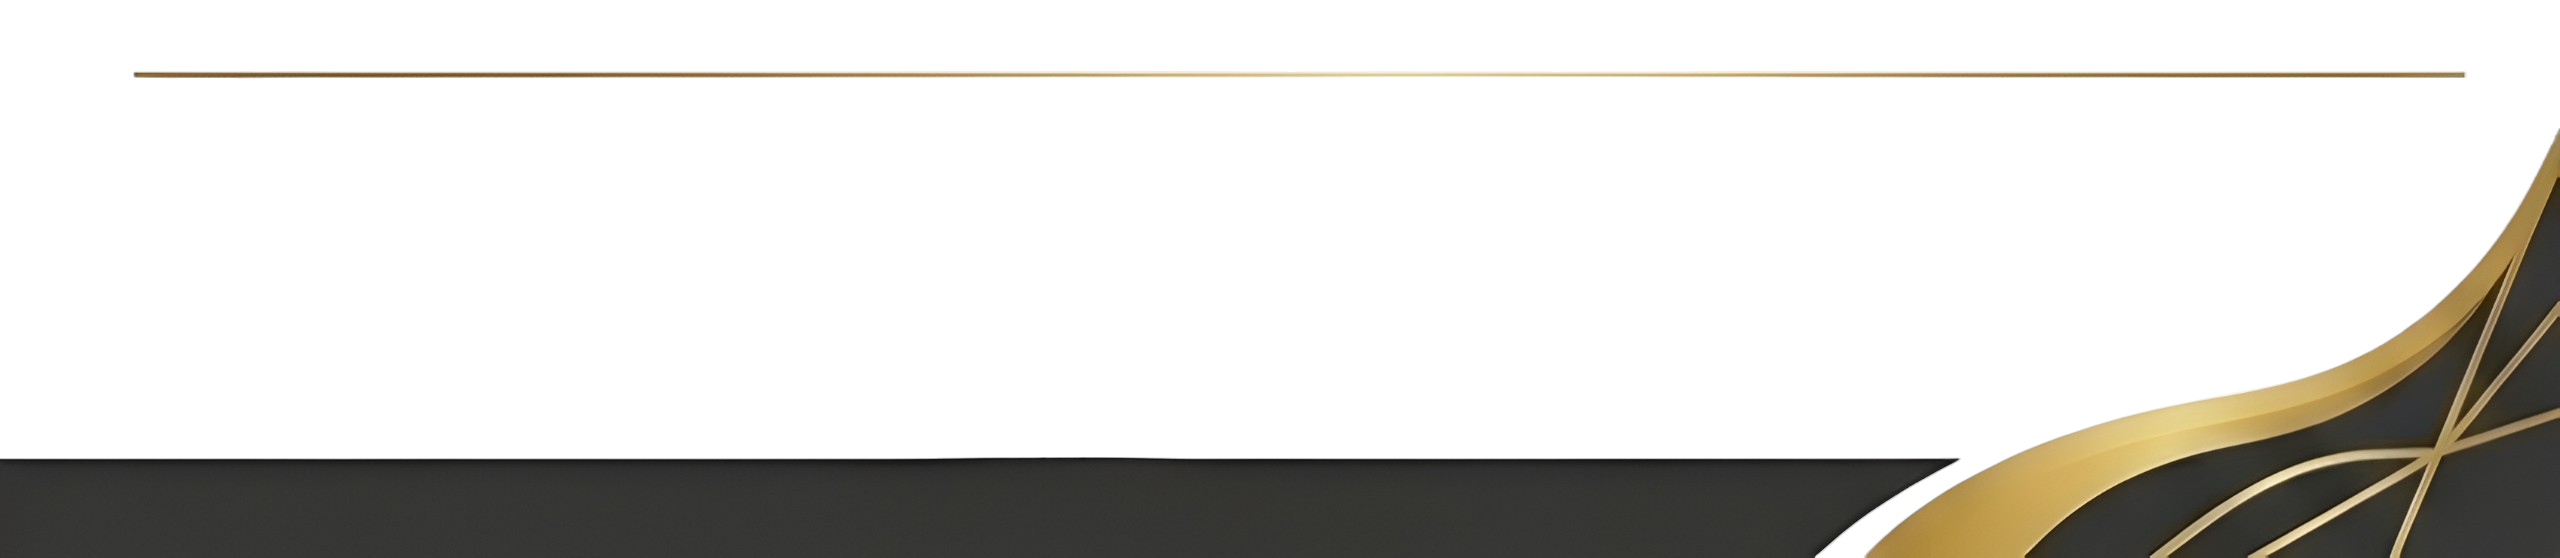
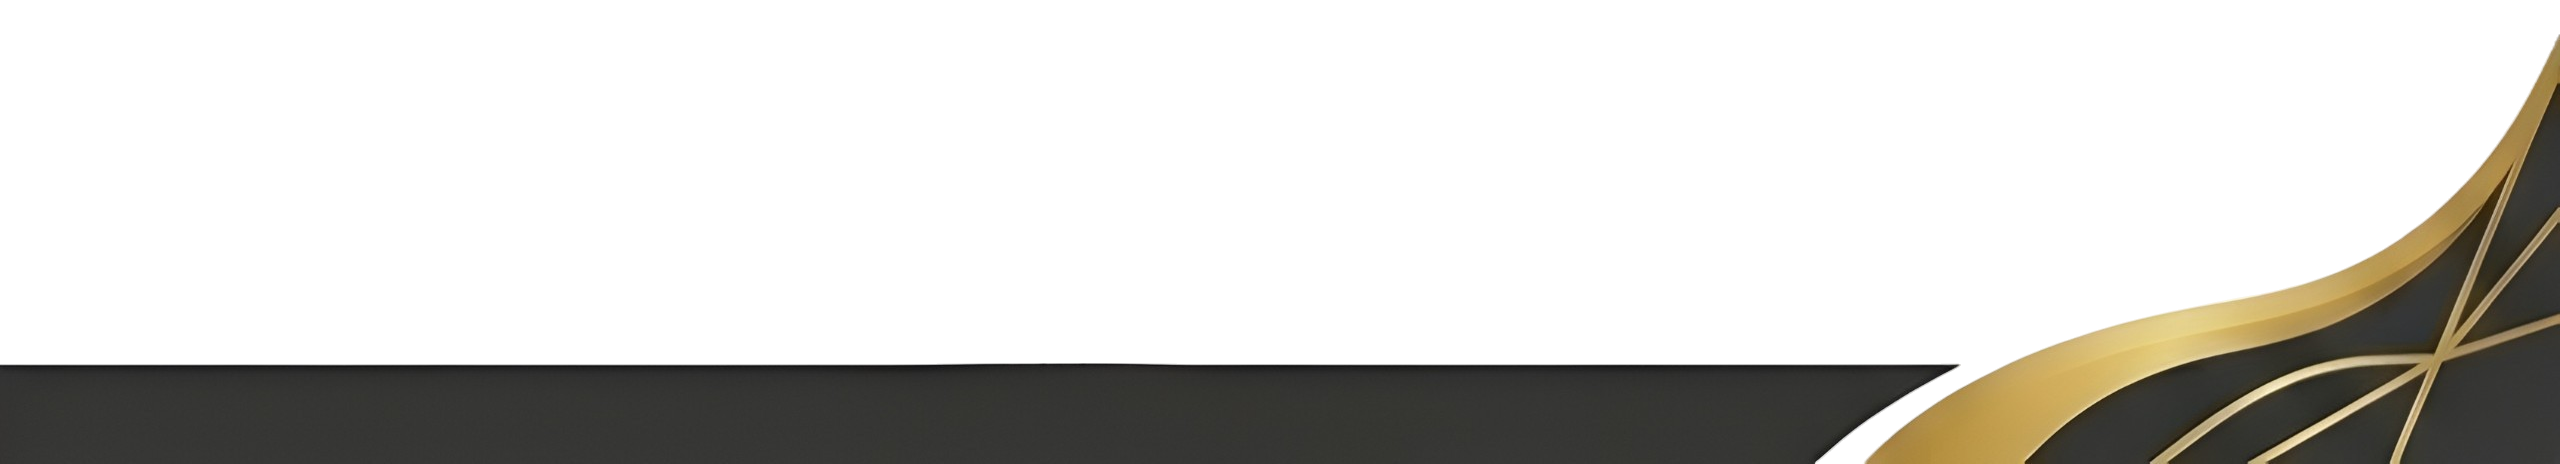
Adjust amount box spacing and implement conditional dashed borders

Changed region(s): [[0.0, 0.0905, 1.0, 0.9957], [0.7812, 0.9052, 0.8125, 0.9655]]

diff --git a/src/ReceiptVoucher.jsx b/src/ReceiptVoucher.jsx
@@ -389,15 +389,15 @@ export default function ReceiptVoucher() {
               <div className="flex justify-between items-end mb-8 mt-2 px-1 font-[Arial,sans-serif]">
                 <div className="flex gap-2 items-end w-[35%]">
                   <span className="font-bold text-[14px] text-[#111]">Voucher No:</span>
-                  <div className="border-b-[1.5px] border-[#222] pb-0.5 text-[14px] text-[#222] font-semibold flex-1 tracking-wide">{voucherNo}</div>
+                  <div className="pb-0.5 text-[14px] text-[#222] font-semibold flex-1 tracking-wide">{voucherNo}</div>
                 </div>
                 <div className="flex gap-2 items-end w-[25%]">
                   <span className="font-bold text-[14px] text-[#111]">Date:</span>
-                  <div className="border-b-[1.5px] border-[#222] pb-0.5 text-[14px] text-[#222] font-semibold flex-1 tracking-wide text-center">{date}</div>
+                  <div className="pb-0.5 text-[14px] text-[#222] font-semibold flex-1 tracking-wide text-center">{date}</div>
                 </div>
                 <div className="flex flex-col items-end w-[35%]">
                   <div className="font-bold text-[12px] text-[#111] mb-1.5 w-full text-left uppercase">Amount (AED):</div>
-                  <div className="flex bg-white w-full border-[1.5px] border-[#222] p-[1px]">
+                  <div className="flex bg-white w-fit border-[1.5px] border-[#222] p-[1px]">
                     {renderAmountBoxes()}
                   </div>
                 </div>
@@ -410,7 +410,7 @@ export default function ReceiptVoucher() {
                     <span className="font-bold text-[13px] text-[#111] mr-3 shrink-0 uppercase tracking-wide">
                       {field.label}:
                     </span>
-                    <div className="flex-1 border-b-[1.5px] border-dashed border-[#555] pb-1 min-h-[26px] text-[14px] text-[#222] font-semibold px-2 relative leading-relaxed">
+                    <div className={`flex-1 ${field.value ? '' : 'border-b-[1.5px] border-dashed border-[#555]'} pb-1 min-h-[26px] text-[14px] text-[#222] font-semibold px-2 relative leading-relaxed`}>
                       {field.value}
                     </div>
                   </div>
@@ -423,23 +423,23 @@ export default function ReceiptVoucher() {
                       DESCRIPTION:
                     </span>
                     <div className="flex-1">
-                      <div className="border-b-[1.5px] border-dashed border-[#555] min-h-[30px] text-[14px] text-[#222] font-semibold px-2 break-all leading-relaxed">
+                      <div className={`${description.split('\n')[0] ? '' : 'border-b-[1.5px] border-dashed border-[#555]'} min-h-[30px] text-[14px] text-[#222] font-semibold px-2 break-all leading-relaxed`}>
                         {description.split('\n')[0] || ''}
                       </div>
                     </div>
                   </div>
-                  <div className="border-b-[1.5px] border-dashed border-[#555] min-h-[30px] text-[14px] text-[#222] font-semibold px-2 mt-7 leading-relaxed">
+                  <div className={`${description.split('\n').length > 1 && description.split('\n')[1] ? '' : 'border-b-[1.5px] border-dashed border-[#555]'} min-h-[30px] text-[14px] text-[#222] font-semibold px-2 mt-7 leading-relaxed`}>
                     {description.split('\n').length > 1 ? description.split('\n').slice(1).join(' ') : ''}
                   </div>
-                  <div className="border-b-[1.5px] border-dashed border-[#555] min-h-[30px] text-[14px] text-[#222] font-semibold px-2 mt-7 leading-relaxed"></div>
+                  <div className={`${description.split('\n').length > 2 && description.split('\n')[2] ? '' : 'border-b-[1.5px] border-dashed border-[#555]'} min-h-[30px] text-[14px] text-[#222] font-semibold px-2 mt-7 leading-relaxed`}></div>
                 </div>
                 
                 <div className="relative flex items-end pt-2">
                   <span className="font-bold text-[13px] text-[#111] mr-3 shrink-0 uppercase tracking-wide">
                     AMOUNT (Figures):
                   </span>
-                  <div className="flex-1 border-b-[1.5px] border-dashed border-[#555] pb-1 min-h-[26px] text-[14px] text-[#222] font-bold px-2 leading-relaxed">
-                    AED {amount} /-
+                  <div className={`flex-1 ${amount && amount !== '0.00' ? '' : 'border-b-[1.5px] border-dashed border-[#555]'} pb-1 min-h-[26px] text-[14px] text-[#222] font-bold px-2 leading-relaxed`}>
+                    {amount ? `AED ${amount} /-` : ''}
                   </div>
                 </div>
 
@@ -469,7 +469,7 @@ export default function ReceiptVoucher() {
                   <span className="font-bold text-[13px] text-[#111] mr-3 shrink-0 uppercase tracking-wide">
                     BANK NAME:
                   </span>
-                  <div className="flex-1 border-b-[1.5px] border-dashed border-[#555] pb-1 min-h-[26px] text-[14px] text-[#222] font-semibold px-2 leading-relaxed">
+                  <div className={`flex-1 ${bankDetails.bankName ? '' : 'border-b-[1.5px] border-dashed border-[#555]'} pb-1 min-h-[26px] text-[14px] text-[#222] font-semibold px-2 leading-relaxed`}>
                     {bankDetails.bankName}
                   </div>
                 </div>
@@ -479,7 +479,7 @@ export default function ReceiptVoucher() {
                     <span className="font-bold text-[13px] text-[#111] mr-3 shrink-0 uppercase tracking-wide">
                       CHEQUE/REF. NO:
                     </span>
-                    <div className="flex-1 border-b-[1.5px] border-dashed border-[#555] pb-1 min-h-[26px] text-[14px] text-[#222] font-semibold px-2 leading-relaxed">
+                    <div className={`flex-1 ${bankDetails.chequeNo ? '' : 'border-b-[1.5px] border-dashed border-[#555]'} pb-1 min-h-[26px] text-[14px] text-[#222] font-semibold px-2 leading-relaxed`}>
                       {bankDetails.chequeNo}
                     </div>
                   </div>
@@ -487,7 +487,7 @@ export default function ReceiptVoucher() {
                     <span className="font-bold text-[13px] text-[#111] mr-3 shrink-0 uppercase tracking-wide">
                       DATE:
                     </span>
-                    <div className="flex-1 border-b-[1.5px] border-dashed border-[#555] pb-1 min-h-[26px] text-[14px] text-[#222] font-semibold px-2 leading-relaxed text-center">
+                    <div className={`flex-1 ${bankDetails.date ? '' : 'border-b-[1.5px] border-dashed border-[#555]'} pb-1 min-h-[26px] text-[14px] text-[#222] font-semibold px-2 leading-relaxed text-center`}>
                       {bankDetails.date}
                     </div>
                   </div>
